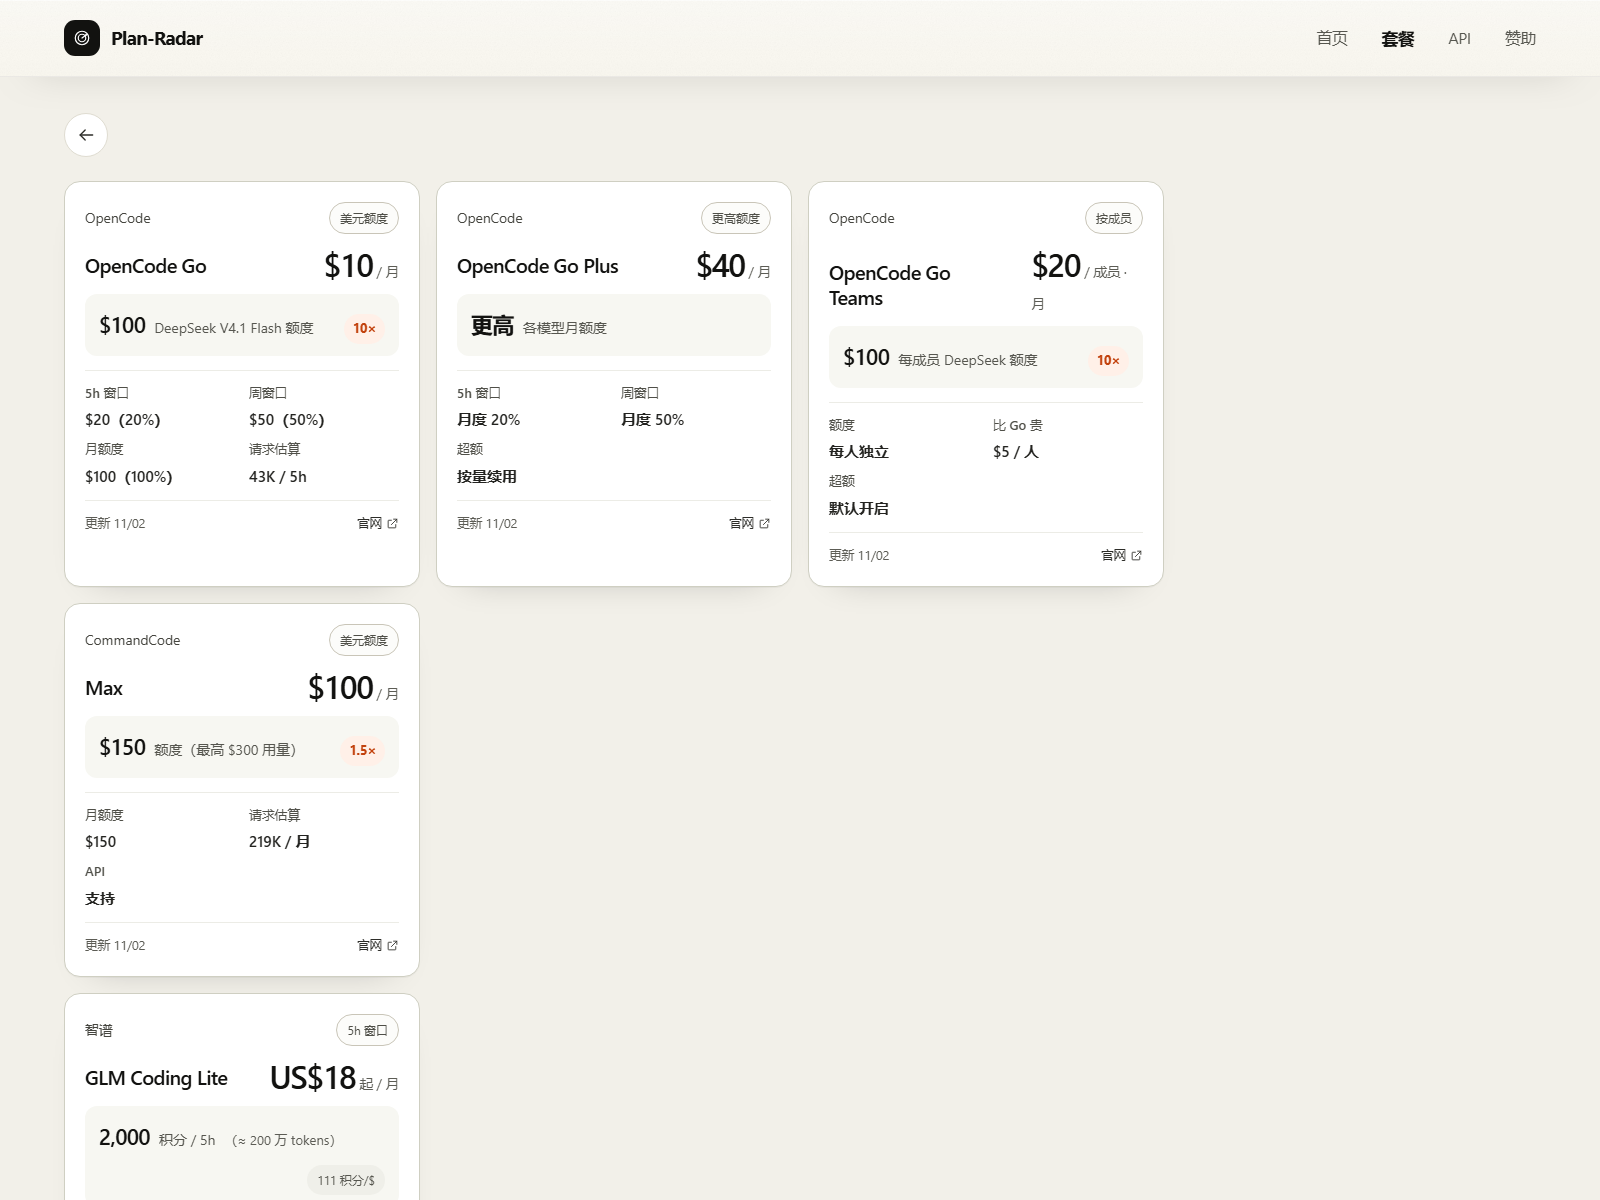
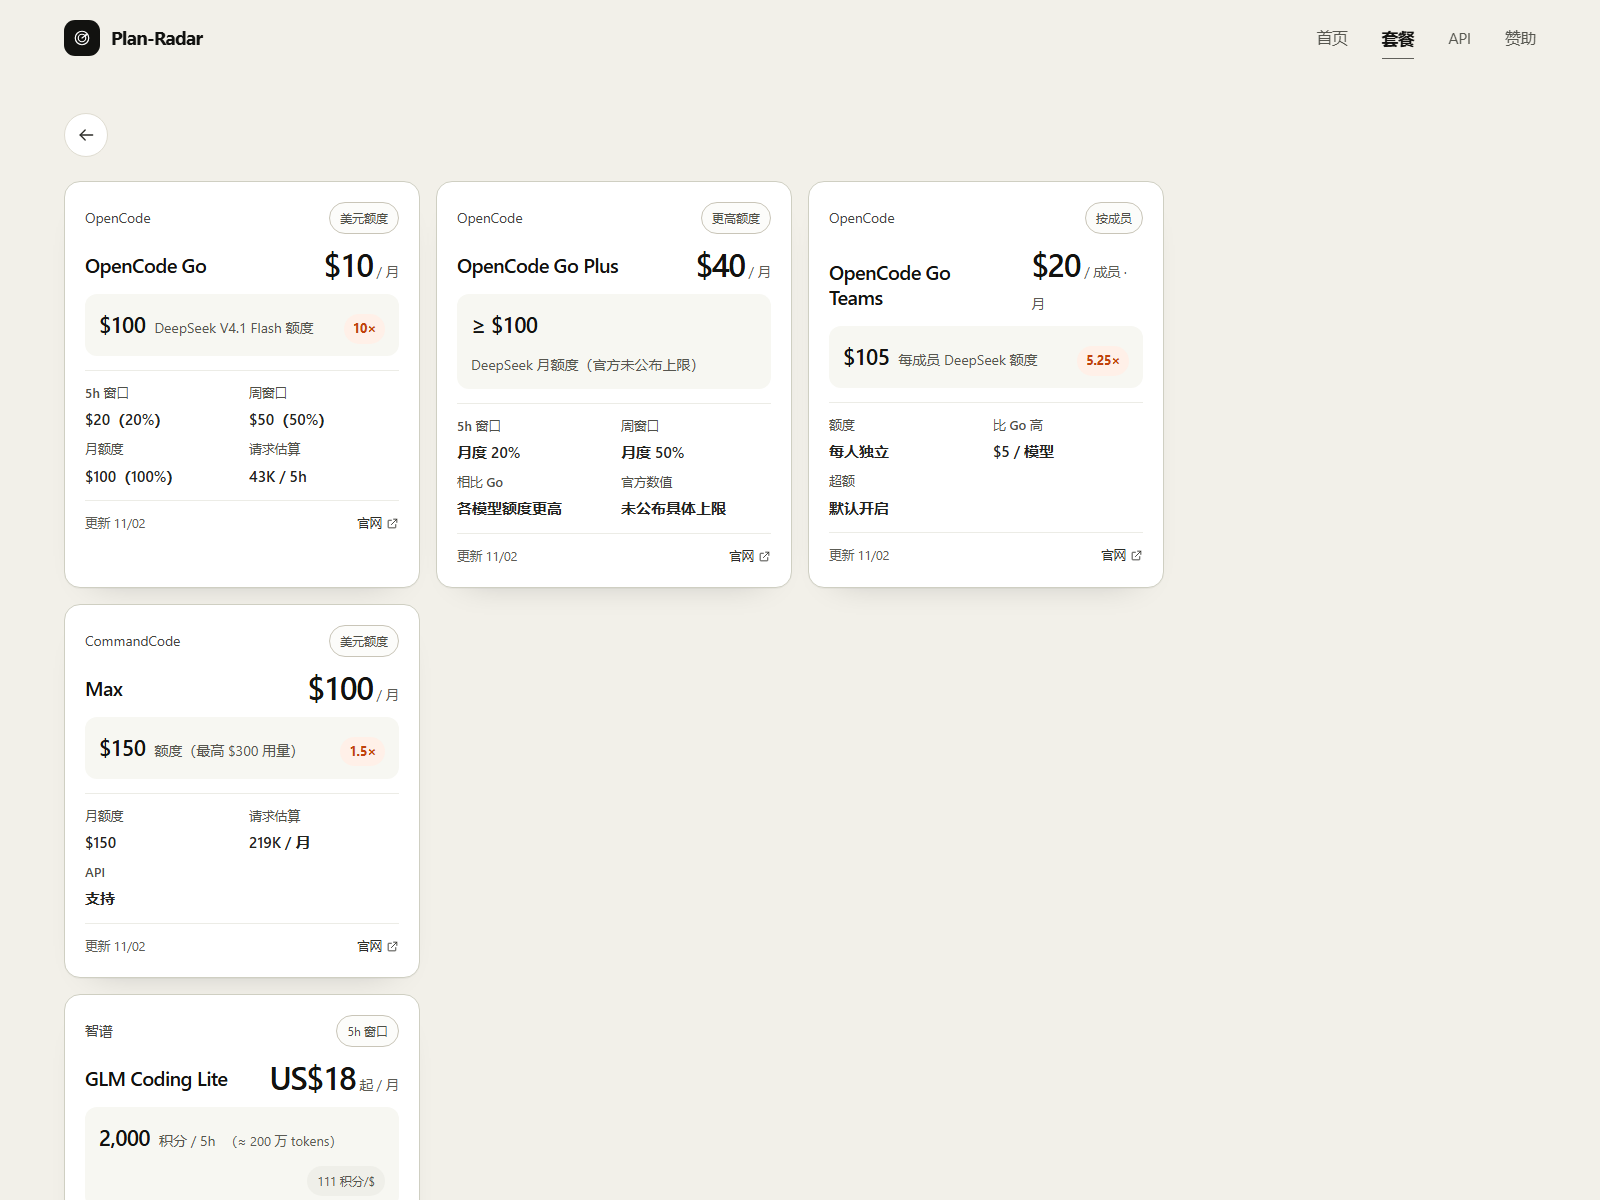
fix: correct OpenCode Plus and Teams quotas

diff --git a/lib/plans.ts b/lib/plans.ts
@@ -81,13 +81,13 @@ export const globalPlans: Plan[] = [
     kind: "usd",
     price: "$40",
     priceUnit: "/ 月",
-    quotaValue: "更高",
-    quotaLabel: "各模型月额度",
+    quotaValue: "≥ $100",
+    quotaLabel: "DeepSeek 月额度（官方未公布上限）",
     specs: [
       { label: "5h 窗口", value: "月度 20%" },
       { label: "周窗口", value: "月度 50%" },
-      { label: "模型", value: "80+ 个" },
-      { label: "超额", value: "按量续用" },
+      { label: "相比 Go", value: "各模型额度更高" },
+      { label: "官方数值", value: "未公布具体上限" },
     ],
     models: [
       { name: "DeepSeek V4.1 Flash" },
@@ -108,12 +108,12 @@ export const globalPlans: Plan[] = [
     kind: "usd",
     price: "$20",
     priceUnit: "/ 成员 · 月",
-    quotaValue: "$100",
+    quotaValue: "$105",
     quotaLabel: "每成员 DeepSeek 额度",
-    multiplier: "10×",
+    multiplier: "5.25×",
     specs: [
       { label: "额度", value: "每人独立" },
-      { label: "比 Go 贵", value: "$5 / 人" },
+      { label: "比 Go 高", value: "$5 / 模型" },
       { label: "超额", value: "默认开启" },
       { label: "模型", value: "80+ 个" },
     ],
